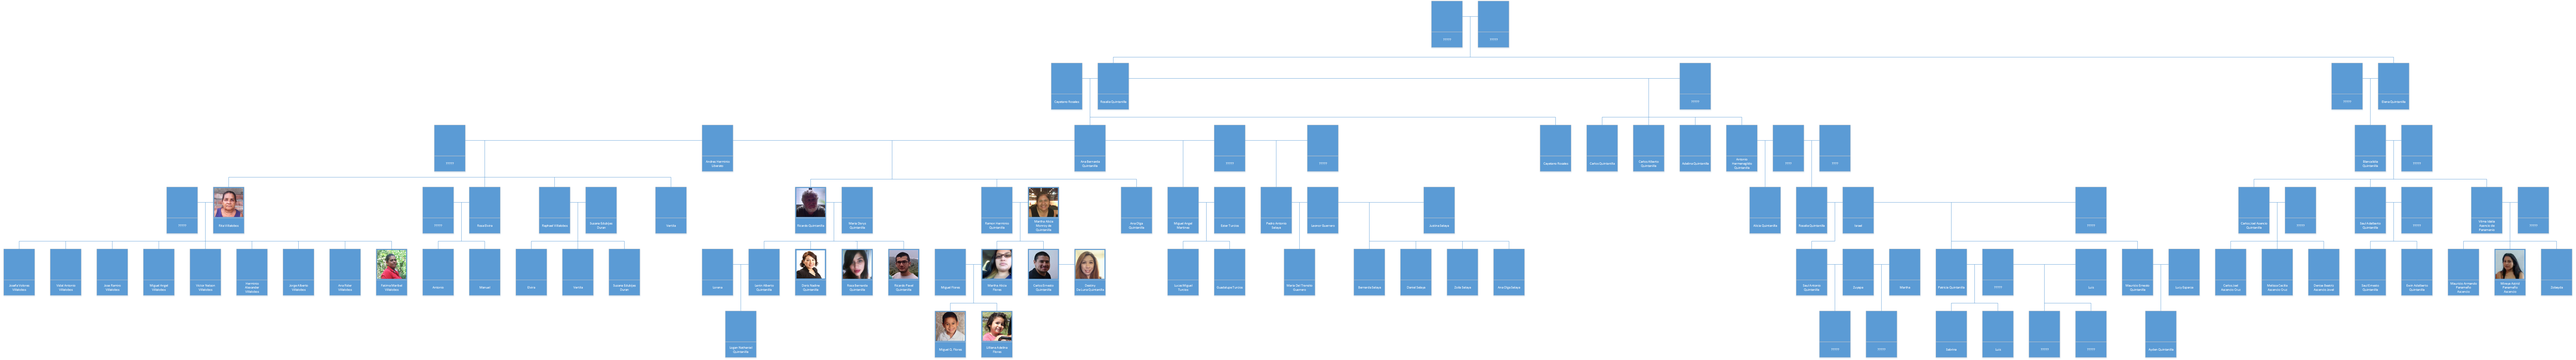
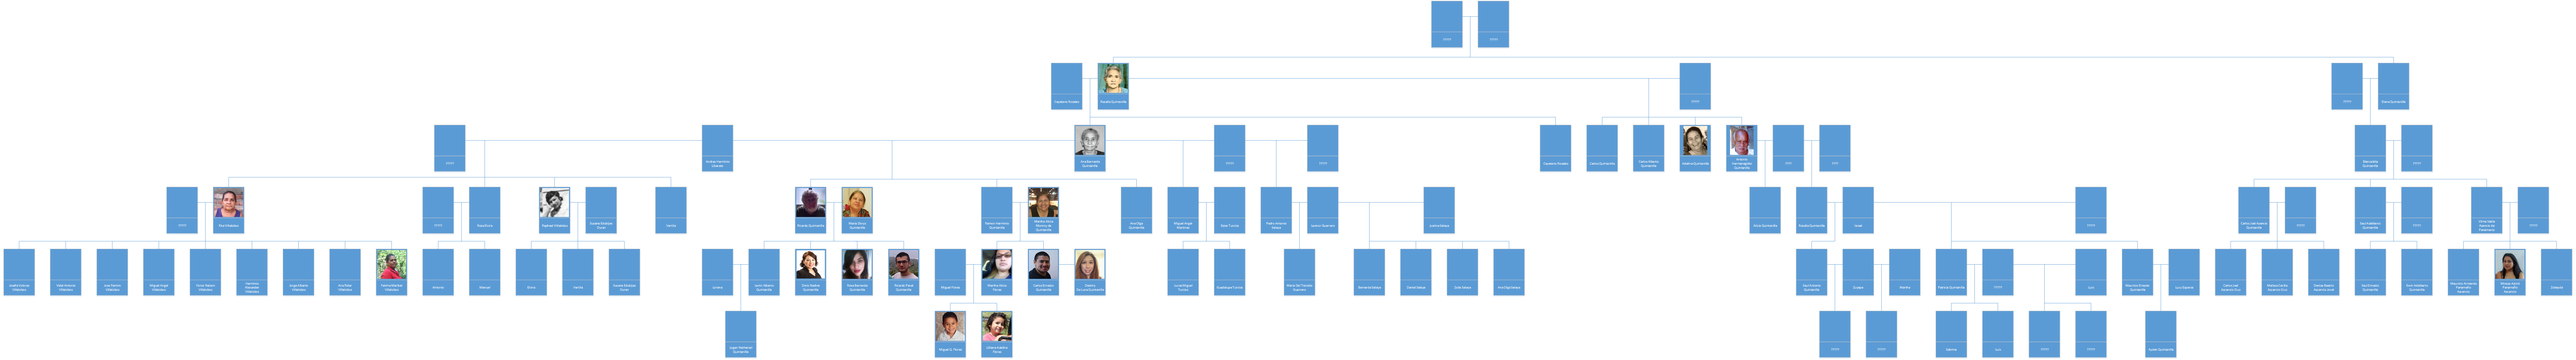
Update Pictures and Message

diff --git a/index.html b/index.html
@@ -7,7 +7,9 @@
 <h1>Nuestra Familia</h1>
 <p>Estos son mis arboles familiares.</p>
 <p>Gentes conectadas horizontalmente tienen hijos/hijas o son casados. Gente conectada verticalmente denota los padres arriba y los hijos debajo. </p>
-<a href="https://www.facebook.com/pavelquintanilla"><img src="facebook-logo.png" width="20" height="20" /></a>
+<p>Me gustaría tener fotos de cada persona o a lo menos tener los nombres correctos. Díganme que piensan, quien falta, o si hay errores. En seguido esta mi página de Facebook y mi correo electrónico.¡Si no los conozco, pues ahora nos podemos conocer!</p>
+<a href="https://www.facebook.com/pavelquintanilla"><img src="facebook-logo.png" width="25" height="25" /></a>
+<a href="mailto:rpq5136@rit.edu?Subject=¡Buen%20Día!" target="_top">Correo Electrónico</a>
 <h2>La Familia de Mi Padre</h2>
 <div class="box">
 	<img src="Fathers Family.png" alt="My Father's Family">
